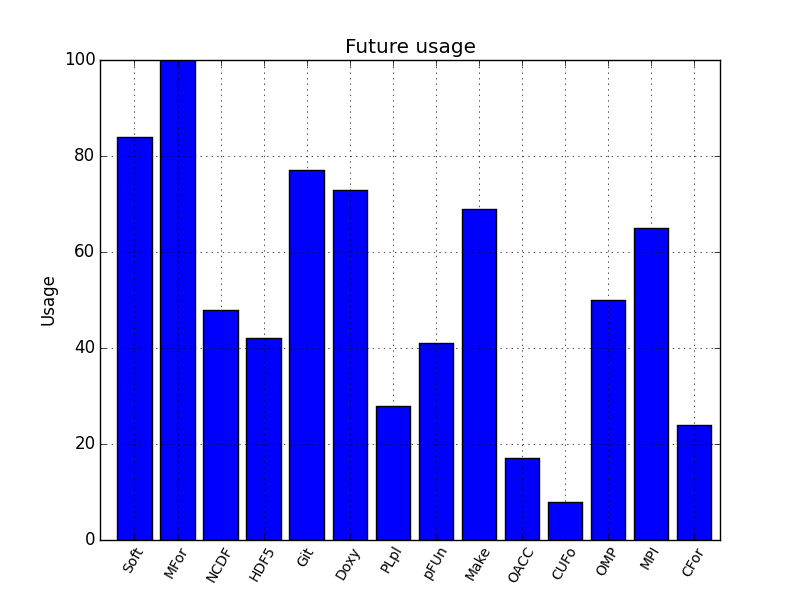
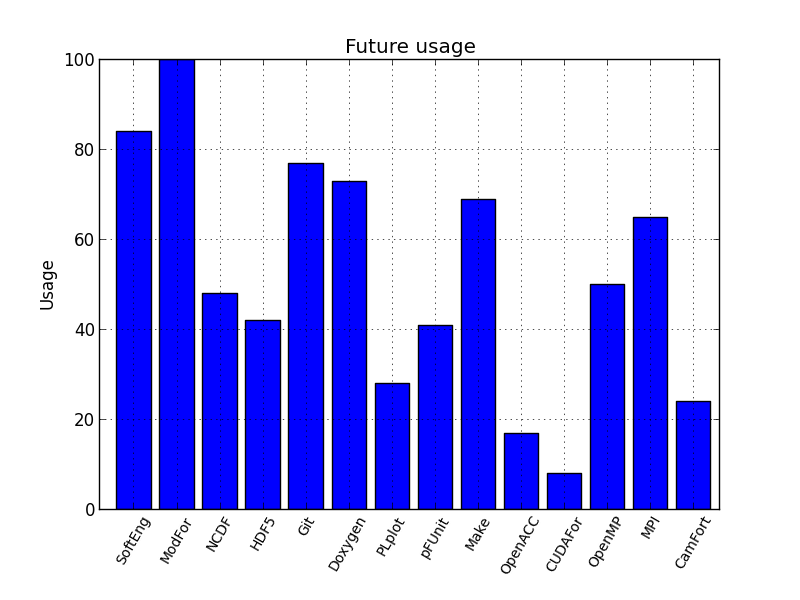
fixed xtics length to 8 chars

Changed region(s): [[0.0625, 0.09, 0.9062, 0.99], [0.0312, 0.45, 0.0938, 0.54]]

diff --git a/fortran_usage/fortran_usage.py b/fortran_usage/fortran_usage.py
@@ -15,7 +15,7 @@ parser.add_option( '--title', dest = 'title', default = 'Fortran usage' )
 
 options, remainder = parser.parse_args( )
 
-data = np.genfromtxt( options.input_file, dtype = [ ( 'fortran_standard', 'a4' ), \
+data = np.genfromtxt( options.input_file, dtype = [ ( 'fortran_standard', 'a8' ), \
                                                     ( 'fortran_usage', 'i8' ), ], \
                                           comments = '#' )
 
@@ -47,9 +47,6 @@ plt1.grid( True )
 plt.axis( xmin = -0.4, xmax = fortran_usage.size )
 plt.xticks( xrange + 0.4, fortran_standard, rotation = 60, size = 'small' )
 plt.title( options.title )
-#plt.tick_params( length = 6 )
-#plt.subplots_adjust(bottom=0.15)
-#plt.gca().tight_layout()
-# plt.margins(0.2)
+plt.subplots_adjust(bottom=0.15)
 plt.savefig( options.output_file )
  
